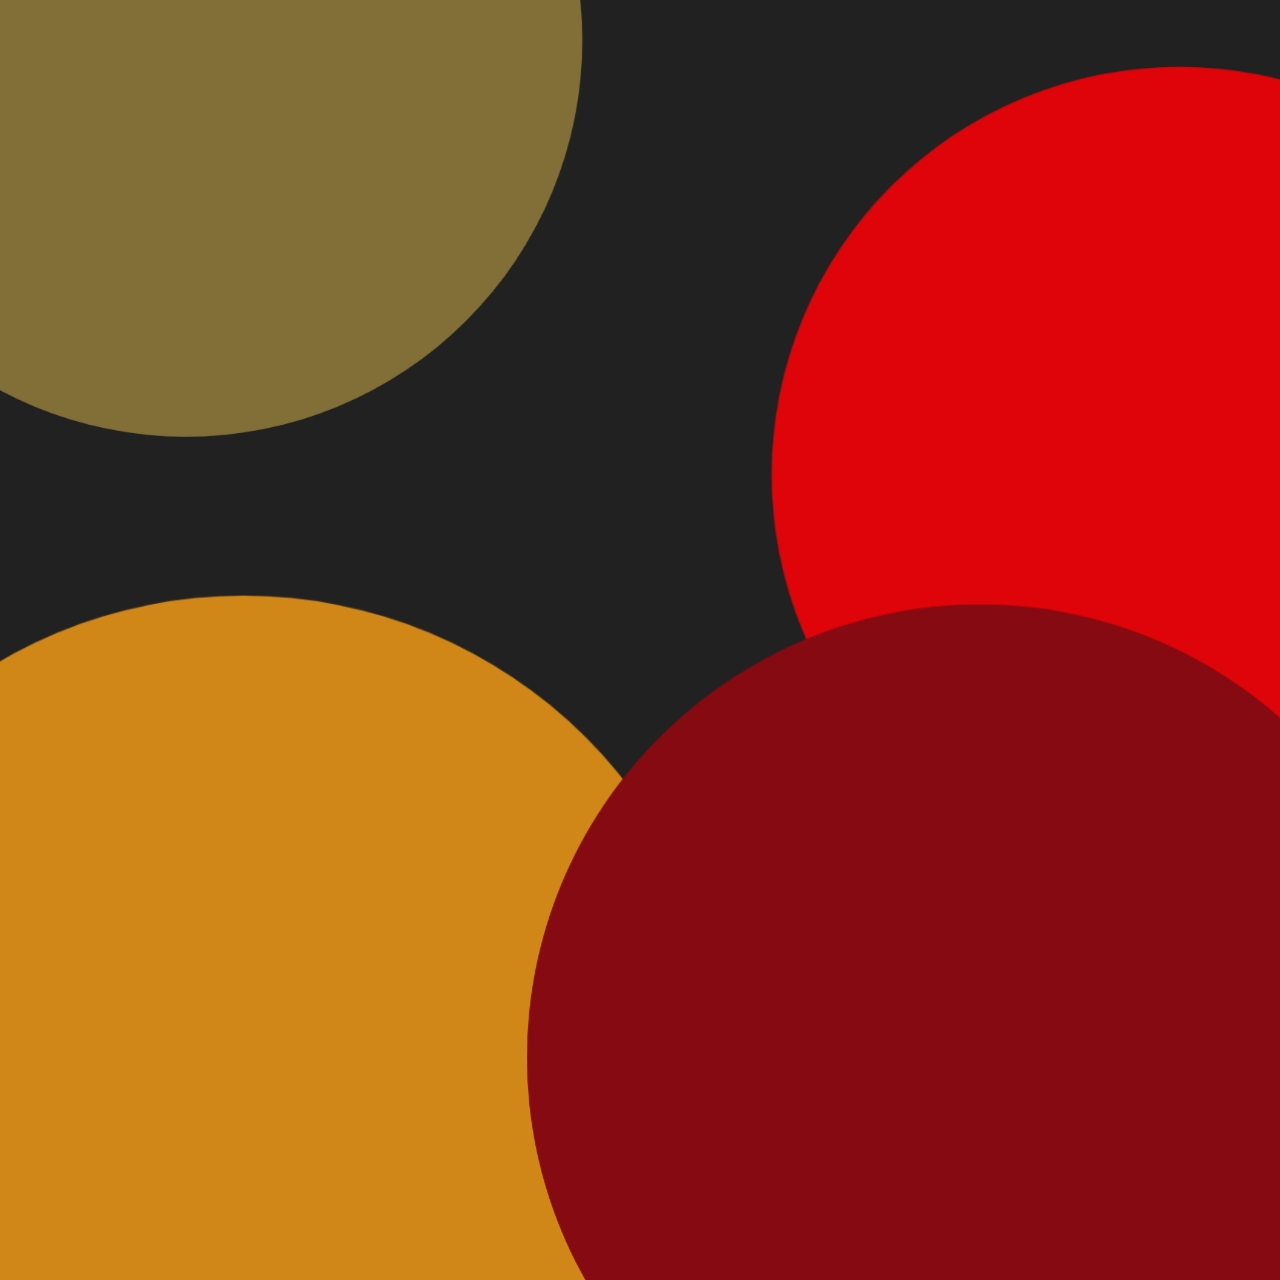
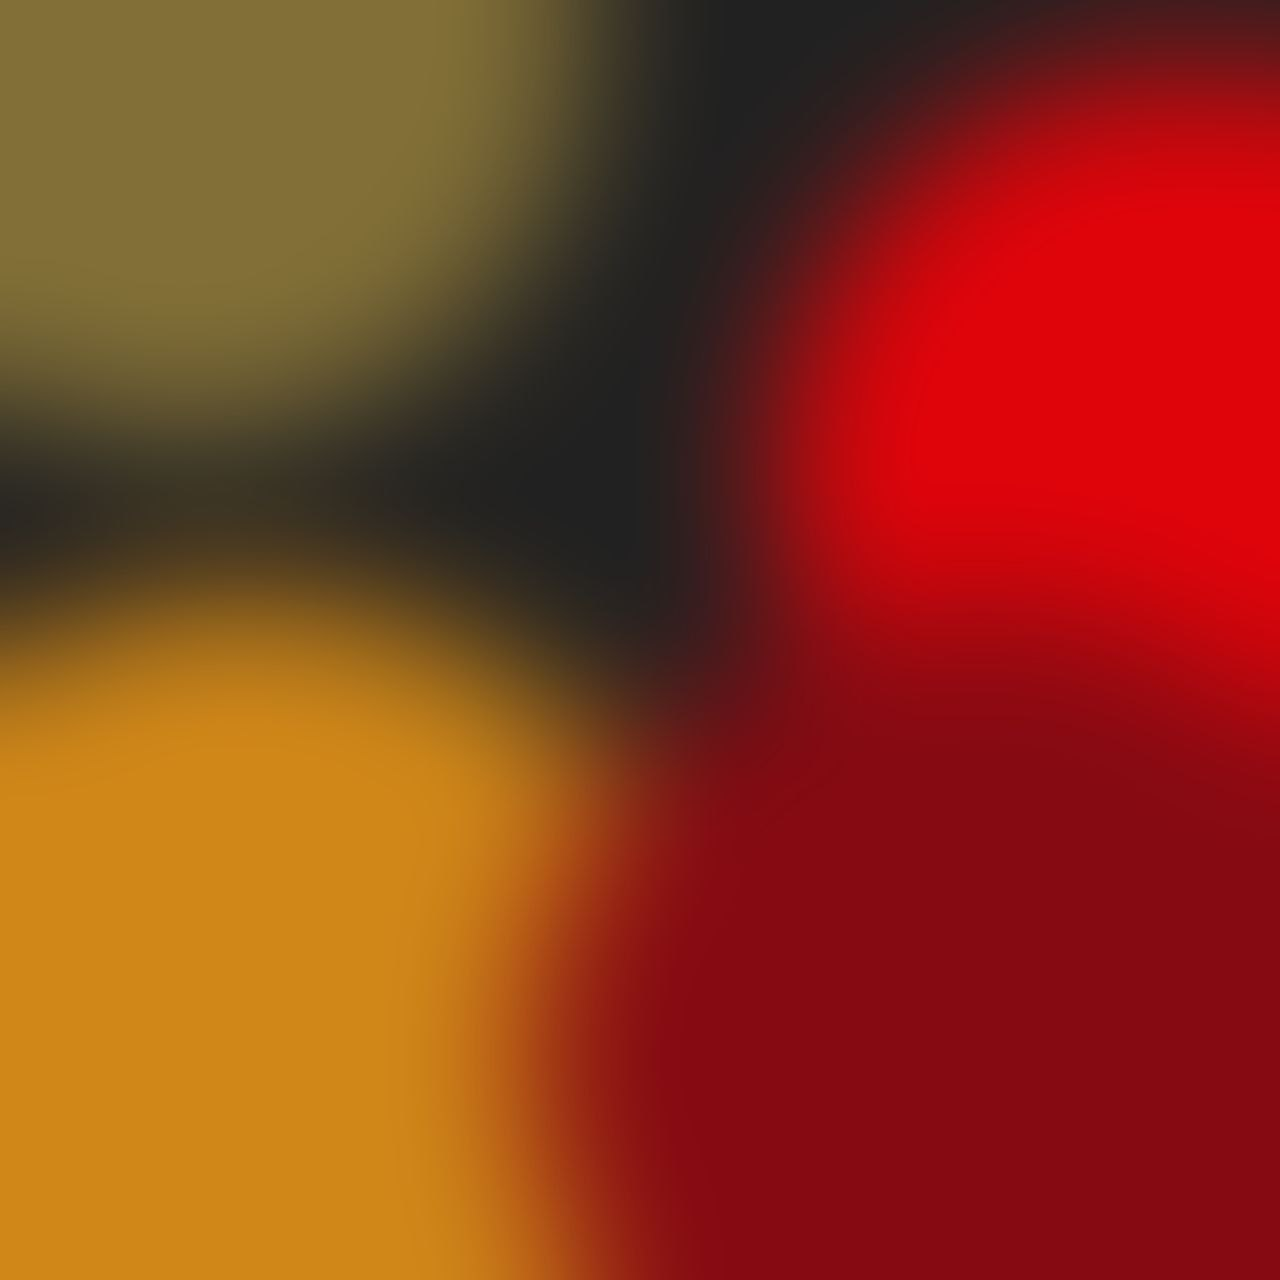
Optimize
Remove the blur filter because it makes the website slower and replace it with blur images

Changed region(s): [[0.0, 0.0, 1.0, 1.0]]

diff --git a/CSS/style.css b/CSS/style.css
@@ -65,7 +65,7 @@ body{
   position: relative;
 }
 
-@media (max-height: 550px){
+@media (max-height: 750px){
   .store{
     height: max-content;
   }
@@ -78,8 +78,8 @@ body{
   height: 100%;
   top: 0;
   left: 0;
-  background-color: #141415a2;
-  backdrop-filter: blur(110px);
+  background-color: rgba(20, 20, 21, 0.635);
+  
 }
 
 .container{
@@ -607,7 +607,6 @@ input[type="checkbox"]{
   width: 100%;
   border-radius: 20px;
   background-color: rgba(0, 0, 0, 0.1);
-  backdrop-filter: blur(13px);
 }
 
 .content .featured .game-info .info .content{
